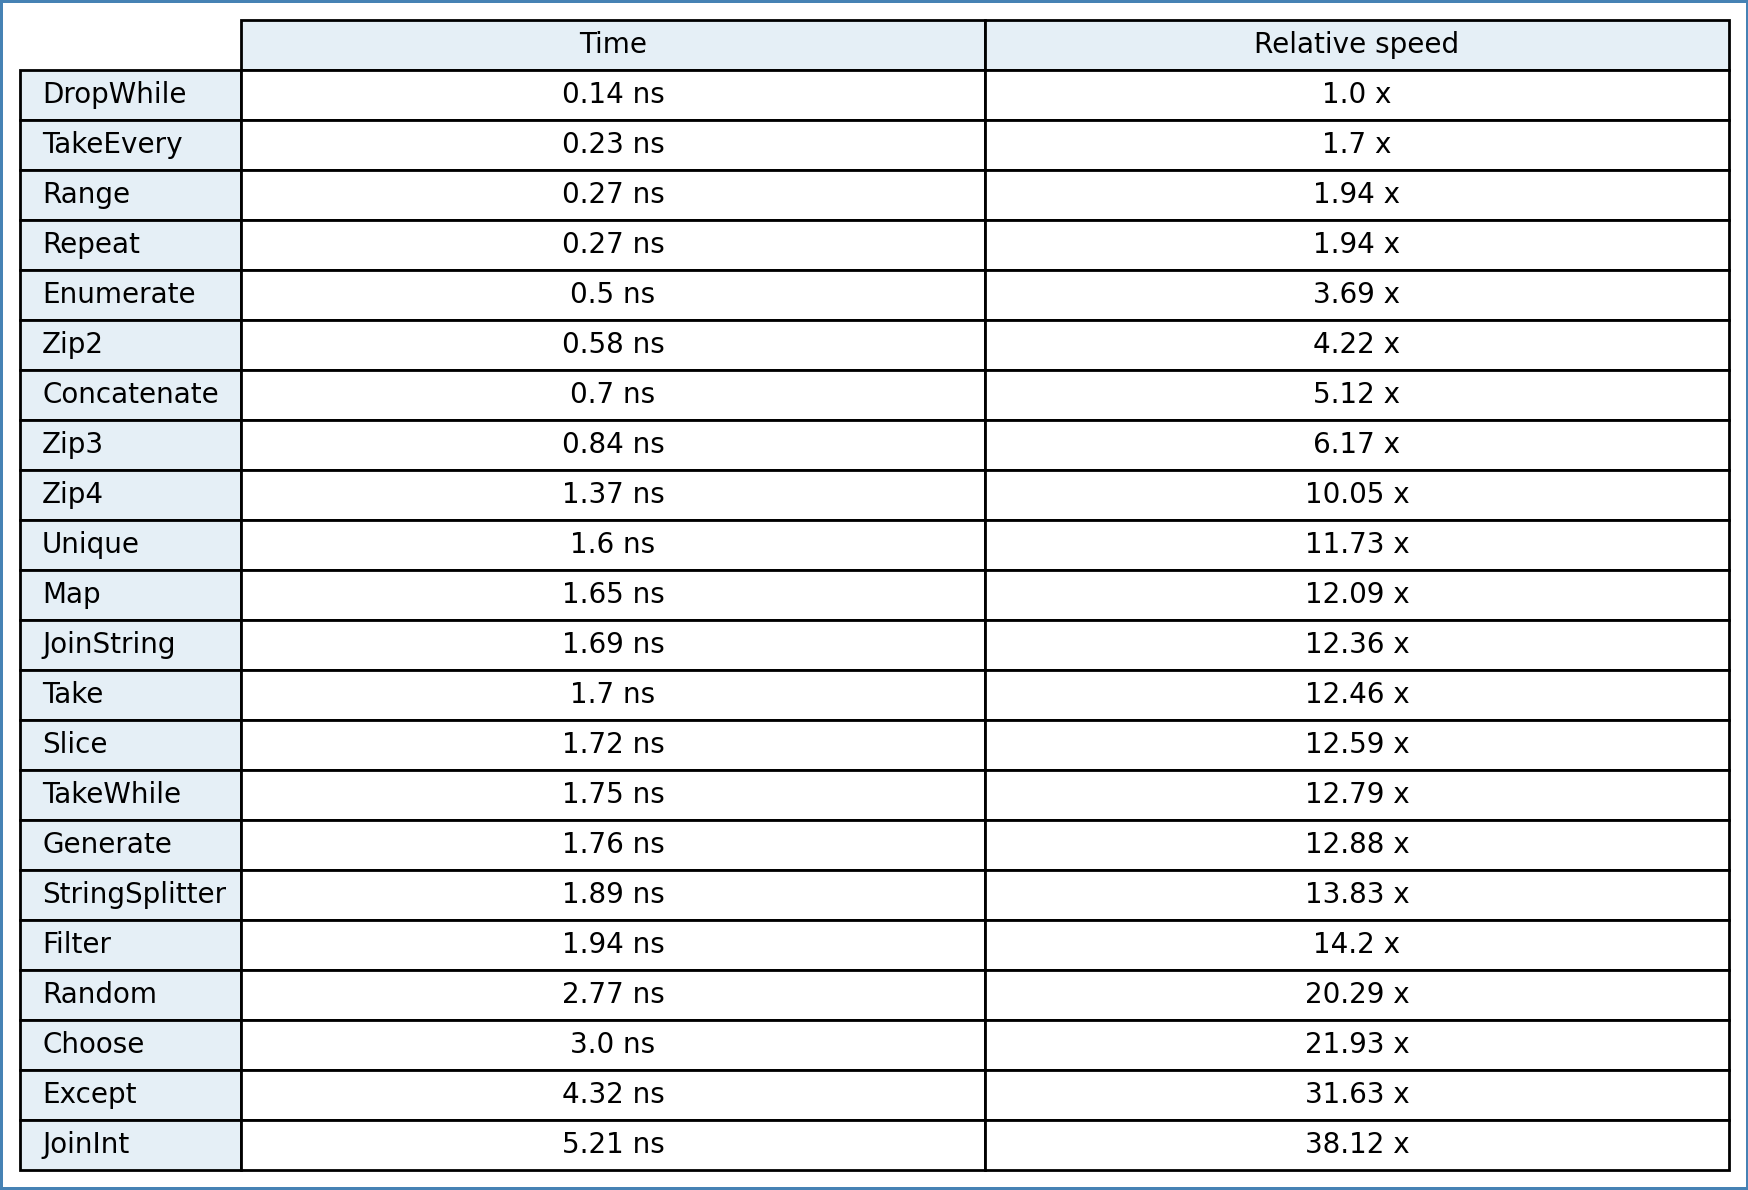
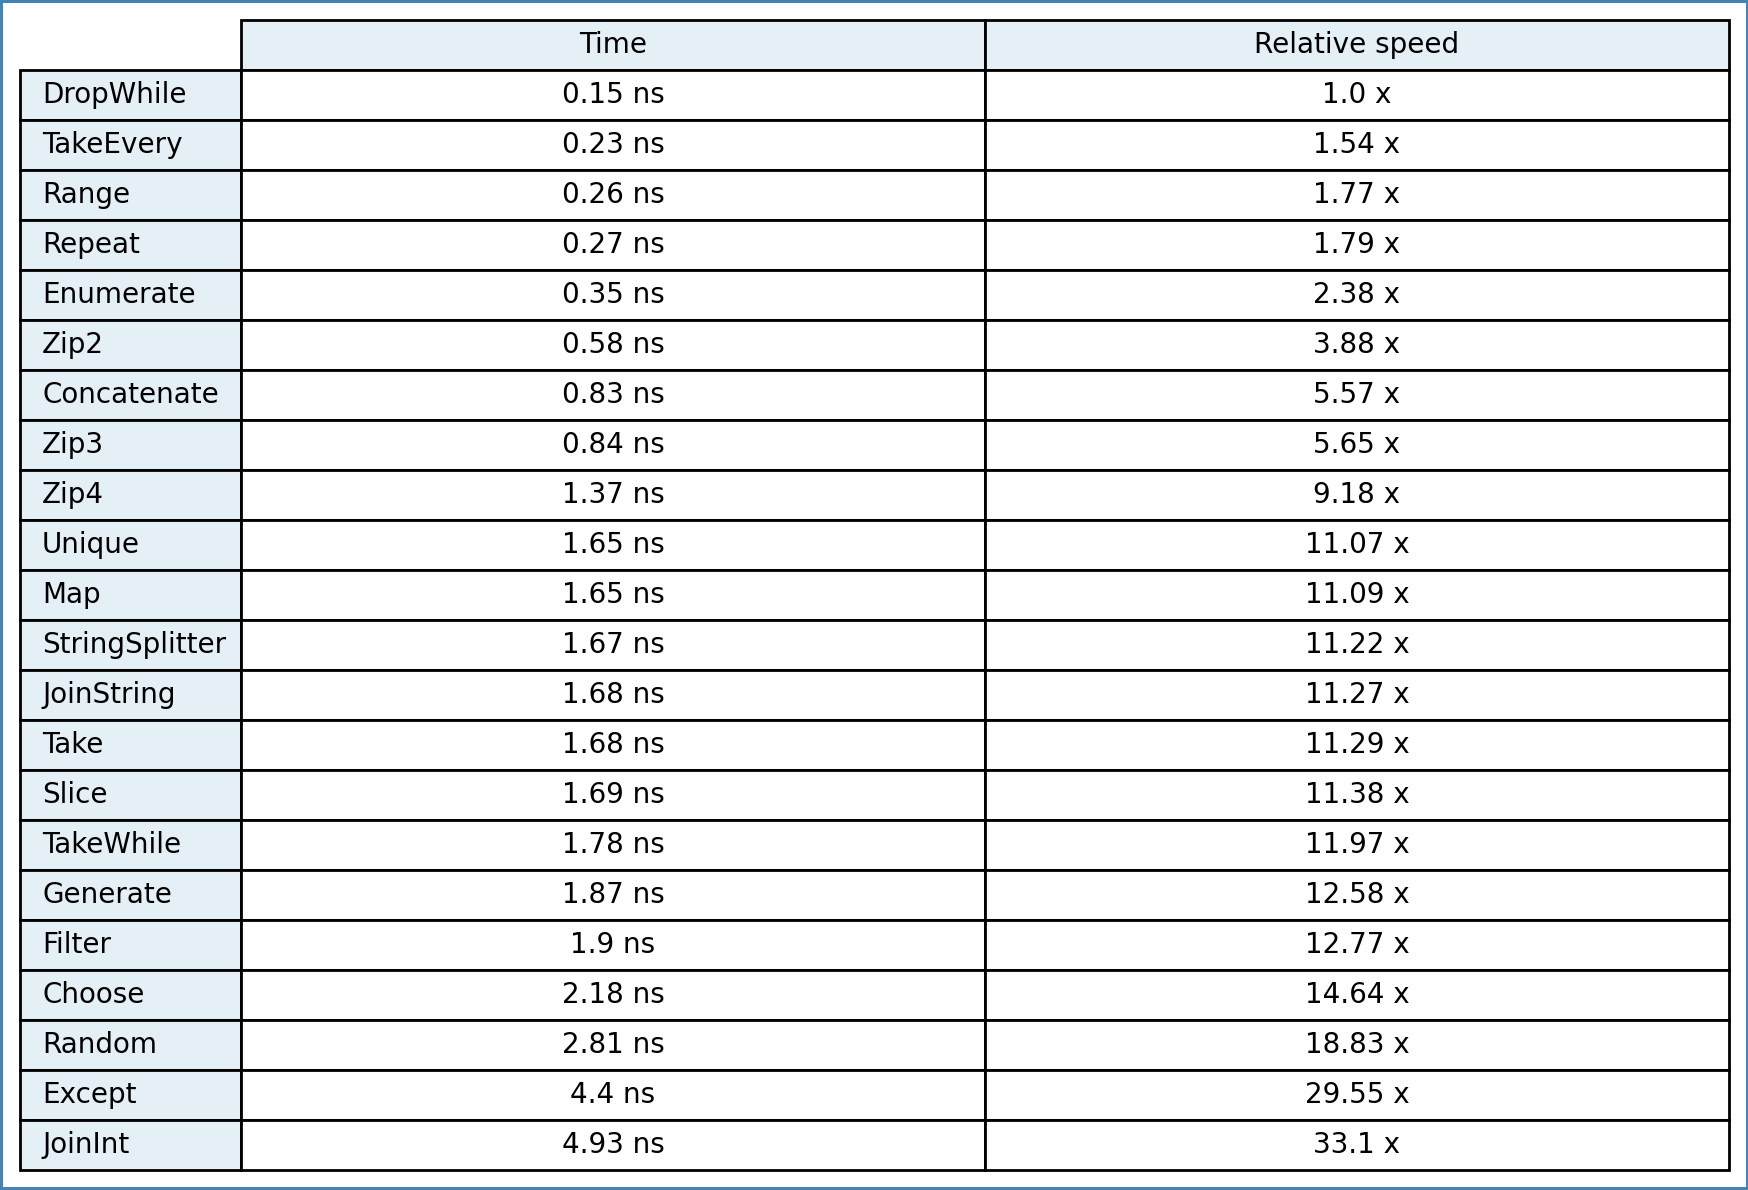
Formatting + accurate benchmarks

diff --git a/include/Lz/detail/JoinIterator.hpp b/include/Lz/detail/JoinIterator.hpp
@@ -13,17 +13,16 @@
 
 namespace lz { namespace detail {
     template<class T>
-    struct IsFmtIntCompatible :
-        std::integral_constant<bool, std::is_integral<T>::value &&
-                                     !std::is_same<T, bool>::value &&
-                                     !std::is_same<T, char>::value &&
-                                     !std::is_same<T, unsigned char>::value &&
-                                     !std::is_same<T, wchar_t>::value &&
-                                     #ifdef HAS_CXX_20
-                                     !std::is_same<T, char8_t> &&
-                                     #endif
-                                     !std::is_same<T, char16_t>::value &&
-                                     !std::is_same<T, char32_t>::value> {
+    struct IsFmtIntCompatible : std::integral_constant<bool, std::is_integral<T>::value &&
+                                                             !std::is_same<T, bool>::value &&
+                                                             !std::is_same<T, char>::value &&
+                                                             !std::is_same<T, unsigned char>::value &&
+                                                             !std::is_same<T, wchar_t>::value &&
+#ifdef HAS_CXX_20
+                                                             !std::is_same<T, char8_t> &&
+#endif
+                                                             !std::is_same<T, char16_t>::value &&
+                                                             !std::is_same<T, char32_t>::value> {
     };
 
     template<class Arithmetic>

diff --git a/include/Lz/detail/ChooseIterator.hpp b/include/Lz/detail/ChooseIterator.hpp
@@ -29,9 +29,9 @@ namespace lz { namespace detail {
     private:
         void findNext(const size_t offset = 0) {
             _iterator = std::find_if(std::next(_iterator, offset), _end, [this](const FunctionParamType value) {
-                Pair result = (*_func)(value);
+                std::pair<bool, value_type> result = (*_func)(value);
                 if (result.first) {
-                    _current = std::move(result.second);
+                    _current = result.second;
                     return true;
                 }
                 return false;

diff --git a/bench/benchmarks-iterators.cpp b/bench/benchmarks-iterators.cpp
@@ -208,7 +208,7 @@ static void DropWhile(benchmark::State& state) {
 static void Choose(benchmark::State& state) {
     std::string s = "123df574d587f85432df52f4ssf5d222";
     auto chooser = lz::choose(s, [](const char c) {
-        return std::make_pair(static_cast<bool>(std::isdigit(c)), static_cast<int>(c - '0'));
+        return std::make_pair(c == '1', 1);
     });
 
     for (auto _ : state) {

diff --git a/examples/Choose.cpp b/examples/Choose.cpp
@@ -1,5 +1,4 @@
 #include <Lz/Choose.hpp>
-#include <vector>
 #include <iostream>
 
 

diff --git a/tests/test-main.cpp b/tests/test-main.cpp
@@ -1,4 +1,3 @@
 #define CATCH_CONFIG_MAIN
 
 #include <catch.hpp>
-#include <Lz.hpp>
